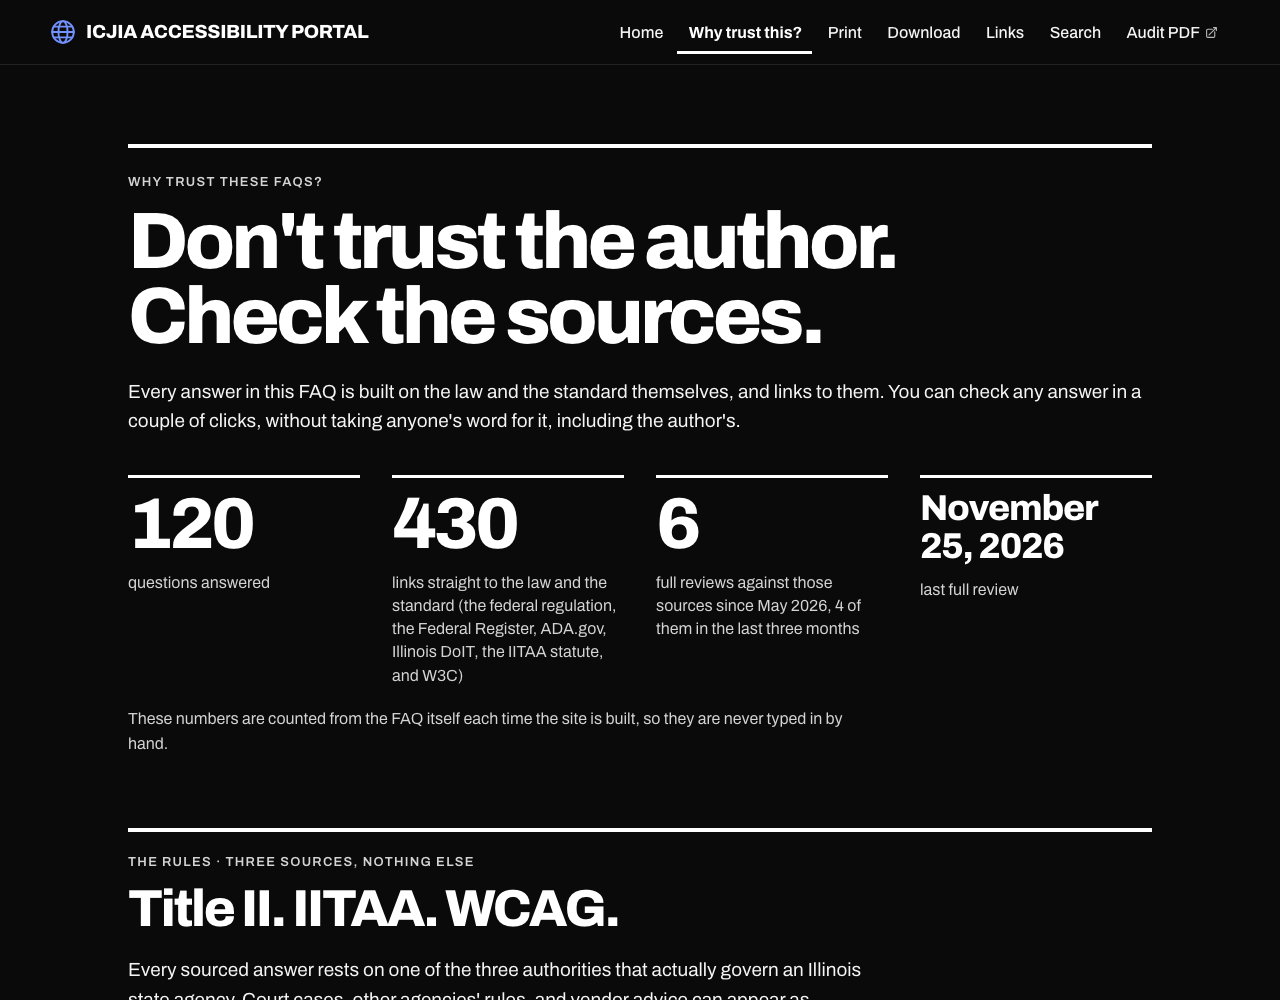
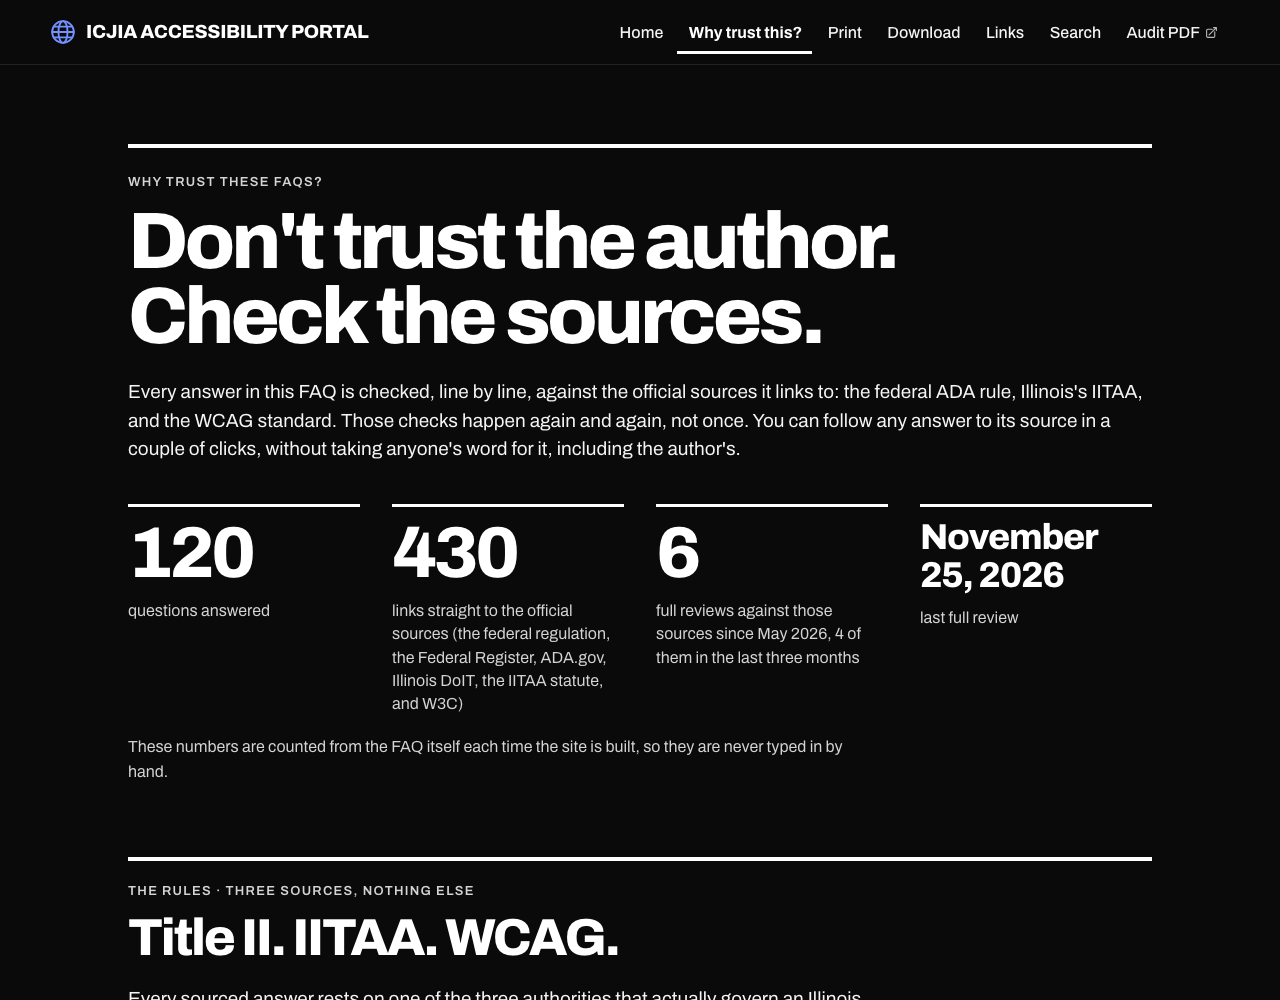
trust page: opening reworded around repeated, line-by-line review of official sources
Drops 'built on the law and the standard themselves' for wording about
checking every answer against the official sources it links to, again and
again. The links figure now says 'official sources'. Screenshot refreshed.

diff --git a/app/pages/trust.vue b/app/pages/trust.vue
@@ -6,10 +6,11 @@
         <p class="pk-label">Why trust these FAQs?</p>
         <h1 class="pk-page-title">Don't trust the author. Check the sources.</h1>
         <p class="pk-page-intro">
-          Every answer in this FAQ is built on the law and the standard
-          themselves, and links to them. You can check any answer in a couple
-          of clicks, without taking anyone's word for it, including the
-          author's.
+          Every answer in this FAQ is checked, line by line, against the
+          official sources it links to: the federal ADA rule, Illinois's IITAA,
+          and the WCAG standard. Those checks happen again and again, not once.
+          You can follow any answer to its source in a couple of clicks,
+          without taking anyone's word for it, including the author's.
         </p>
       </div>
 
@@ -23,7 +24,7 @@
           </div>
           <div class="trust-stat">
             <dt class="trust-stat-label">
-              links straight to the law and the standard (the federal
+              links straight to the official sources (the federal
               regulation, the Federal Register, ADA.gov, Illinois DoIT, the
               IITAA statute, and W3C)
             </dt>

diff --git a/README.md b/README.md
@@ -41,7 +41,7 @@ The site uses the same "Plakat" look as ICJIA's document checker at [audit.icjia
 
 **Why trust these FAQs?** — the three authorities every answer rests on, how many links go straight to them, and every full review, dated:
 
-![Why trust these FAQs page: the headline "Don't trust the author. Check the sources." above four figures: 120 questions answered, 430 links straight to the law and the standard, 6 full reviews, and the last review date, November 25, 2026](markdown-documentation/screenshots/trust.png)
+![Why trust these FAQs page: the headline "Don't trust the author. Check the sources." above four figures: 120 questions answered, 430 links straight to the official sources, 6 full reviews, and the last review date, November 25, 2026](markdown-documentation/screenshots/trust.png)
 
 **An open answer** — questions are ruled rows with an "Open +" / "Close –" cue:
 

diff --git a/CHANGELOG.md b/CHANGELOG.md
@@ -16,6 +16,7 @@ This project follows [Semantic Versioning](https://semver.org/).
 - **Review history:** `app/utils/reviewHistory.ts` lists the six full reviews since May 14, 2026. A new unit test (`test/unit/reviewHistory.test.ts`, 4 tests) checks the list is newest first and that its newest date equals `lastReviewed` in `content/faqs.md`, so a review can't move the date without being listed.
 - **Linked from:** the top bar (second, after Home), the footer (first), and the FAQ's own "Why should I trust this FAQ…?" answer (a "See also" line).
 - **What's New** entry added.
+- **Wording:** the page's opening says each answer is checked, line by line, against the official sources it links to, again and again; it no longer says answers are "built on the law" (the author is not a lawyer, and the point is the checking).
 
 ### Changed — top bar
 
